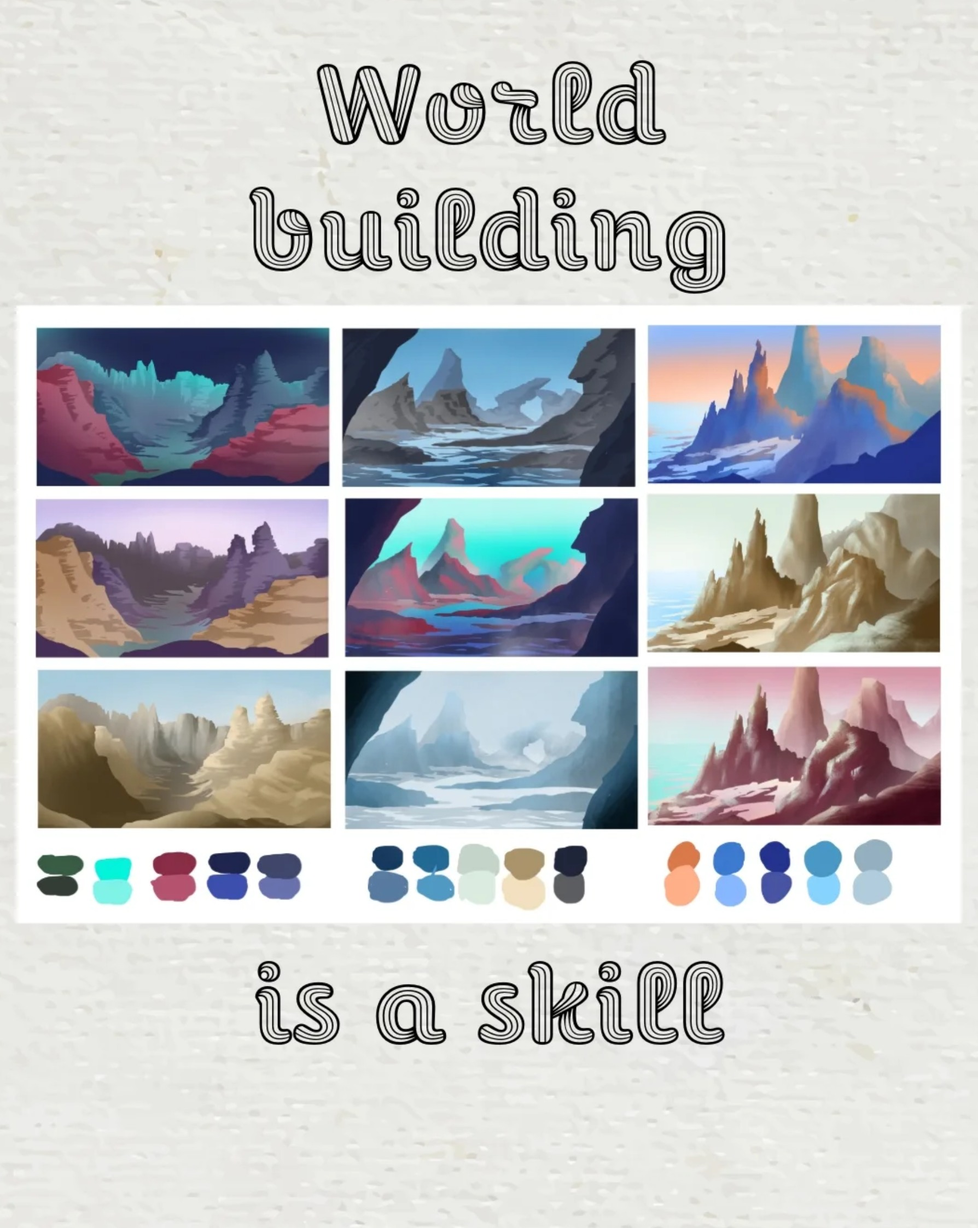
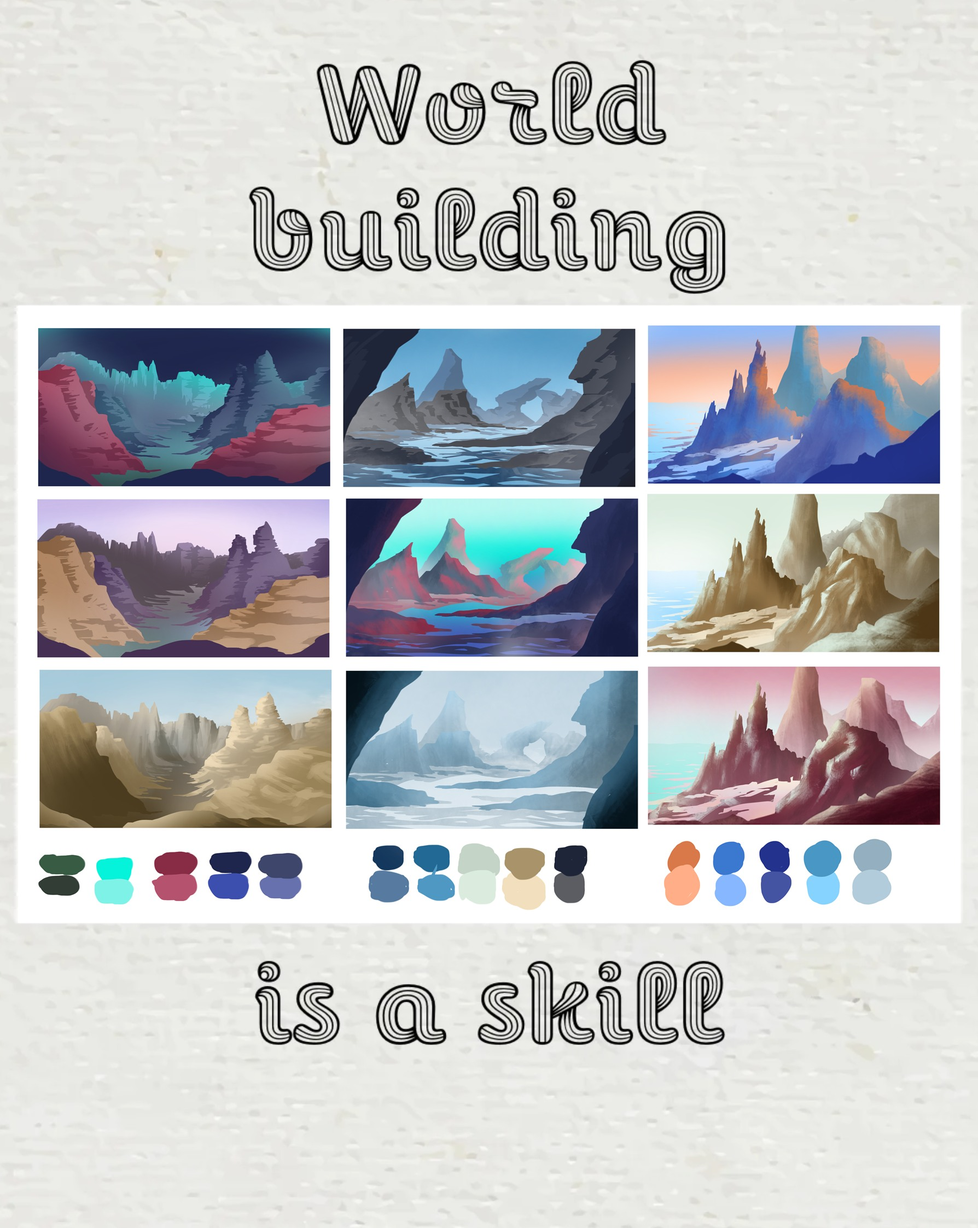
Sharper Episode 15; add Episodes 16 and 17; keep tall and wide pages sharp
- Episode 15: rebuilt from the original painting. The three columns are
  cut from the full-size studies; the title slide keeps its lettering
  from the screenshot with the original grid placed over its grid.
- Episode 16 "Start from the rock. Rock from the start": the post's
  blue text bands from the screenshot around the original painting.
- Episode 17 "Strom na svívanie": a tall single painting.
- build.ps1 now never shrinks a page below 1080 px on its shorter side,
  so tall strips and wide panels keep their detail.
- Pages mode shows very tall pages full width, scrolling within the page.

diff --git a/index.html b/index.html
@@ -6,7 +6,7 @@
 <meta name="claude:viewport-fit-sides" content="cover">
 <meta name="theme-color" content="#0f0d13">
 <!-- build.ps1 fills in a fingerprint of this version; the app compares it to spot updates. -->
-<meta name="app-build" content="8e562c5a">
+<meta name="app-build" content="3177aebb">
 <title>Planes of Nothingness</title>
 <!-- Home-screen app setup (used when served from GitHub Pages). -->
 <meta name="mobile-web-app-capable" content="yes">
@@ -360,6 +360,10 @@
     object-fit: contain;
     -webkit-user-drag: none;
   }
+  /* A very tall picture (a long vertical strip) would be a thin sliver if fitted to the screen,
+     so it fills the width instead and scrolls up and down within its page. */
+  .reader[data-mode="pages"] .page.tall { display: block; }
+  .reader[data-mode="pages"] .page.tall img { max-width: 760px; height: auto; margin-inline: auto; display: block; }
 
   .page { margin: 0; }
 
@@ -450,7 +454,7 @@
 </div>
 
 <!-- build.ps1 replaces the placeholder below with the comic's pages. -->
-<script id="comic-data" type="application/json">{"title":"Planes of Nothingness","seasons":[{"number":1,"episodes":[{"number":1,"pages":[{"src":"pages/s01e01-01-f016c8ff.jpg","text":"When you know that there is a parasite in your head","width":726,"height":1048},{"src":"pages/s01e01-02-c36b840e.jpg","text":"So you search it","width":726,"height":1048},{"src":"pages/s01e01-03-d606966f.jpg","text":"Every open space","width":726,"height":1048},{"src":"pages/s01e01-04-fd0faeb1.jpg","text":"Every hidden corner","width":726,"height":1048},{"src":"pages/s01e01-05-027c182d.jpg","text":"And after finding nothing, you know that there is the only way","width":726,"height":1048},{"src":"pages/s01e01-06-ea084353.jpg","text":"To burn it all to the ground.","width":726,"height":1048},{"src":"pages/s01e01-07-e69f9225.jpg","text":"And in the burned and barren land there is only one thing left","width":727,"height":1047},{"src":"pages/s01e01-08-5533e0df.jpg","text":"The Pit","width":727,"height":1047},{"src":"pages/s01e01-09-82b2bbd4.jpg","text":"The Pit will strip you of everything that is not You","width":722,"height":1043},{"src":"pages/s01e01-10-3f1e8811.jpg","text":"You enter the pit to get rid of It.","width":722,"height":1043},{"src":"pages/s01e01-11-74eab5f2.jpg","text":"And when you finally emerge after long and confusing time","width":722,"height":1043},{"src":"pages/s01e01-12-1a3352ba.jpg","text":"You are just the same as before","width":722,"height":1043},{"src":"pages/s01e01-13-ebbdae8f.jpg","text":"But before entering uncertainty of the Planes of Nothingness","width":721,"height":1047},{"src":"pages/s01e01-14-e9cf42f5.jpg","text":"You consider everything only to avoid it","width":721,"height":1047},{"src":"pages/s01e01-15-f90ca09f.jpg","text":"Even the possibility that the parasite","width":721,"height":1047},{"src":"pages/s01e01-16-e32c0e27.jpg","text":"Is you","width":720,"height":1035}]},{"number":2,"pages":[{"src":"pages/s01e02-01-3e55f551.jpg","text":"In The Planes of Nothingness","width":728,"height":1049},{"src":"pages/s01e02-02-36248a77.jpg","text":"There is this strange peace","width":728,"height":1049},{"src":"pages/s01e02-03-f32efac8.jpg","text":"And despite there is nothing to look at or sense in any other way...","width":728,"height":1049},{"src":"pages/s01e02-04-a41143c1.jpg","text":"You still feel the time passing by.","width":728,"height":1049},{"src":"pages/s01e02-05-bf31c1a6.jpg","text":"Flow of the time...","width":727,"height":1051},{"src":"pages/s01e02-06-96a091be.jpg","text":"...and light.","width":727,"height":1050},{"src":"pages/s01e02-07-1a2759ae.jpg","text":"And you begin to realize that the only thing necessary to feel the flow of the time is the light.","width":725,"height":1046},{"src":"pages/s01e02-08-e57450d8.jpg","text":"Your light.","width":726,"height":1048},{"src":"pages/s01e02-09-055eadbd.jpg","text":"And the realization of the source of this strange peace is even more surprising","width":727,"height":1052},{"src":"pages/s01e02-10-0f0463b7.jpg","text":"As there is nothing to look at, to sense, to keep...","width":723,"height":1044},{"src":"pages/s01e02-11-030cd3b8.jpg","text":"...there is nothing to control, either. Only light and presence to sense.","width":727,"height":1047},{"src":"pages/s01e02-12-3646ee25.jpg","text":"These are The Planes of Nothingness after all.","width":727,"height":1047},{"src":"pages/s01e02-13-cb876dd6.jpg","text":"And as you enjoy peace, light and time...","width":725,"height":1050},{"src":"pages/s01e02-14-9ecb364a.jpg","text":"...you start to feel the disturbance.","width":727,"height":1047},{"src":"pages/s01e02-15-37069275.jpg","text":"It is the people trying to save you...","width":727,"height":1047},{"src":"pages/s01e02-16-4da88316.jpg","text":"...from Nothing.","width":724,"height":1049}]},{"number":3,"pages":[{"src":"pages/s01e03-01-e6583ec8.jpg","text":"A dirt road lined with trees under a pale blue sky, the sun low on the left.","width":1600,"height":1080},{"src":"pages/s01e03-02-fa373ed5.jpg","text":"A blond person in a blue hoodie, holding a walking stick, steps between tree trunks at the edge of the road.","width":882,"height":1600},{"src":"pages/s01e03-03-bfd5b6b8.jpg","text":"Looking down the tree-lined road toward a red sunset. A dark figure stands in the middle of the road.","width":1600,"height":901},{"src":"pages/s01e03-04-2af34a64.jpg","text":"A person in a blue hoodie with a backpack and rolled-up brown trousers stands on the road, trees and a red glow behind.","width":796,"height":1600},{"src":"pages/s01e03-05-a6bd9230.jpg","text":"Under a pink sky, the two walkers stand at opposite ends of a row of trees, facing each other.","width":1600,"height":985},{"src":"pages/s01e03-06-6689bee3.jpg","text":"Close-up of two pairs of shoes facing each other on the path: dark high-tops on the left, worn trainers on the right.","width":1600,"height":790}],"title":"I have build this so that you can come in"},{"number":4,"pages":[{"src":"pages/s01e04-01-aff29d77.jpg","text":"A row of four trees on a grassy plain under a deep violet night sky.","width":1600,"height":930},{"src":"pages/s01e04-02-317b6709.jpg","text":"A person in a blue hood looks down. \"Where am I?\" \"In the middle of Nothing.\" \"There was a Pit...\" \"The Pit. I know. I have built this so that you can rest.\"","width":1600,"height":1154},{"src":"pages/s01e04-03-cb481747.jpg","text":"A simple world seen from above: a road between rows of bushes, a small fire glowing in the corner. \"What is it that you have built, exactly?\" \"For now, only this road, some trees and surrounding fields. The simplest world.\"","width":1480,"height":1600},{"src":"pages/s01e04-04-793a3bd1.jpg","text":"The two travellers sit on either side of a campfire under the trees at night. \"And this fire that cannot burn me but will keep us warm.\" \"Yes.\" \"In that case, can I make a wish?\" \"Yes.\" \"May I have eyes, please?\"","width":1464,"height":1600},{"src":"pages/s01e04-05-ef3eab2f.jpg","text":"A close-up of a pair of brown eyes, a small flame reflected in each. \"Yes, you may. But I am not going to draw them for every scene.\"","width":1600,"height":1065}],"title":"Do not get used to this"},{"number":5,"pages":[{"src":"pages/s01e05-01-d5d30908.jpg","text":"A forest of huge orange-brown tree trunks in daylight. \"May we have more trees?\"","width":1600,"height":556},{"src":"pages/s01e05-02-fec0eaa1.jpg","text":"The same forest glowing red, with pink light between the trunks. \"We may.\"","width":1600,"height":556},{"src":"pages/s01e05-03-28724b0e.jpg","text":"The same forest at night, grey trunks and fireflies in blue-green grass. \"For how long?\"","width":1600,"height":557},{"src":"pages/s01e05-04-9052a9fb.jpg","text":"The same forest at dawn, warm trunks under a violet sky. \"Until the stars fade away.\"","width":1600,"height":556}],"title":"We have the trees at home"},{"number":6,"pages":[{"src":"pages/s01e06-01-012349be.jpg","text":"Title page in black ink: \"Potoo vs Andal\", in big hand-drawn letters over scribbled bushes and grass.","width":1151,"height":1600},{"src":"pages/s01e06-02-c84a4963.jpg","text":"Endless rows of sharp, cross-hatched mountain peaks under an empty sky.","width":1600,"height":1112},{"src":"pages/s01e06-03-522df438.jpg","text":"A shaggy horse with a long dark mane looks out over the mountains.","width":1600,"height":1114},{"src":"pages/s01e06-04-8b9fa649.jpg","text":"The shaggy horse stands on a rocky ledge, looking over the sea of mountains.","width":1600,"height":1114},{"src":"pages/s01e06-05-3f64e4a5.jpg","text":"The shaggy horse gallops through the valley, mane and tail flying, past bushes and boulders.","width":1600,"height":1113},{"src":"pages/s01e06-06-a2baa6d5.jpg","text":"Another horse, with a neatly braided mane, looks over a wooden fence in front of a hedge.","width":1600,"height":1112},{"src":"pages/s01e06-07-19f2723d.jpg","text":"The braided horse leans over the fence, while the shaggy horse appears on the other side of the hedge.","width":1600,"height":1111},{"src":"pages/s01e06-08-8f112d2b.jpg","text":"The braided horse stares wide-eyed as the shaggy horse sticks its tongue out at it over the fence.","width":1600,"height":1114},{"src":"pages/s01e06-09-1f0b1cff.jpg","text":"The shaggy horse gallops away happily into the mountains, through the bushes.","width":1600,"height":1113},{"src":"pages/s01e06-10-926e6c4a.jpg","text":"The empty mountain landscape, with a few rocks and a path leading into the hills.","width":1155,"height":1600}],"title":"Story"},{"number":7,"pages":[{"src":"pages/s01e07-01-cddab238.jpg","text":"Underwater, in violet light: a manatee swims past seagrass, while a snail-like creature peeks out from its shell beside a pink sea anemone. \"That is beautiful.\" \"Leave, please.\"","width":1600,"height":1133},{"src":"pages/s01e07-02-92b36fac.jpg","text":"A smiling brown dinosaur stands by a lake under a purple evening sky with one bright star. \"Why? You said \u0027Until the stars fade away\u0027...\" \"They will - in a few minutes.\"","width":1600,"height":1116},{"src":"pages/s01e07-03-fce6efde.jpg","text":"A burning orange star streaks across the purple sky over grass and stones by a stream. \"You would destroy the world just to get rid of me?\" \"Of course. They are my words.\"","width":1600,"height":1141},{"src":"pages/s01e07-04-e96cccf6.jpg","text":"A swirl of violet, pink and blue specks, like a nebula. \"I can build how many I want.\"","width":1600,"height":1129}],"title":"Leave, please..."},{"number":8,"pages":[{"src":"pages/s01e08-01-42c679cf.jpg","text":"Two sets of pink, ring-like shapes interlock at the centre like clasped hands, on a mossy green background. \"Connection to the point of creation\"","width":1600,"height":1123},{"src":"pages/s01e08-02-54e3468e.jpg","text":"Waves of pink and bright green brushstrokes sweep across the picture. \"The erotic pull\"","width":1600,"height":1125},{"src":"pages/s01e08-03-7ee7f7d3.jpg","text":"Two arrows, one with a green tip and one with a pink tip, meet point to point in a burst of light against a blue sky. \"The touch of two arrows that were pointing at each other.\"","width":1600,"height":1129},{"src":"pages/s01e08-04-18ba0bde.jpg","text":"A small green sprout with a pink bud rises from brown earth above a layer of turquoise water. \"The seed reaching the hidden water source and growing again.\"","width":1600,"height":1121}],"title":"Creation and creativity come from the same source."},{"number":9,"pages":[{"src":"pages/s01e09-01-d9ae37f4.jpg","text":"A white sphere at the centre of many coloured balls on sticks, like a molecule model, against a deep blue background. \"We can hold multitudes.\"","width":1600,"height":1600},{"src":"pages/s01e09-02-fc5ba2f1.jpg","text":"A thorny green growth wraps around a pink stick and spreads over it. \"Sometimes, parts get infected and try to leech on others.\"","width":1600,"height":1600},{"src":"pages/s01e09-03-51efe05d.jpg","text":"The infected pink stick snaps in two, the green growth left holding the broken end. \"So we have to let that part go.\"","width":1600,"height":1600},{"src":"pages/s01e09-04-b56d22c7.jpg","text":"Green tendrils coil tightly around the pink stick, holding on. \"But some parasites are difficult to get rid of.\"","width":1600,"height":1600},{"src":"pages/s01e09-05-7f468285.jpg","text":"The molecule again, with one ball turned into a spiky green growth. \"So in order to stop it from infecting the whole...\"","width":1600,"height":1600},{"src":"pages/s01e09-06-d0b5d7a8.jpg","text":"A grey chunk is torn out of a larger sphere, still tangled in the green and pink growth. \"We rip the part that belongs to the core.\"","width":1600,"height":1600},{"src":"pages/s01e09-07-ad801ff6.jpg","text":"The torn place on the grey sphere is covered by a glowing turquoise net. \"But that is only an illusion.\"","width":1600,"height":1600},{"src":"pages/s01e09-08-23edcf32.jpg","text":"A glowing sphere filled with swirls of blue, pink, green and orange. \"Because at our core no division ever existed.\"","width":1600,"height":1600}],"title":"we can hold multitudes"},{"number":10,"pages":[{"src":"pages/s01e10-01-8ea920f6.jpg","text":"A pink anatomical heart inside a pale circle, a glowing pink wave winding around it. \"All hearts have their specific tunes.\"","width":1600,"height":1600},{"src":"pages/s01e10-02-279b618c.jpg","text":"Two hearts side by side, their two waves rising and falling together. \"Some hearts are naturally in tune with one another and they create a pleasant harmony.\"","width":1600,"height":800},{"src":"pages/s01e10-03-0b5ee290.jpg","text":"Two hearts side by side, their waves clashing out of step, with jagged green sparks between them. \"Some, on the other hand, create cacophony and unwanted tension, so they reject each other.\"","width":1600,"height":800},{"src":"pages/s01e10-04-c64e64f7.jpg","text":"Four hearts, each with a wave of its own colour and rhythm: pink, red, blue and yellow. \"It does not mean they are toxic. We are just different. All of us.\"","width":1600,"height":1600},{"src":"pages/s01e10-05-07d0354c.jpg","text":"One heart wrapped in a tangle of many faint, colourful waves and one sharp, jagged black one. \"Some hearts are a bit more complicated. They are hard to be in tune with, so they get rejected often.\"","width":1600,"height":1600},{"src":"pages/s01e10-06-f1c3a5f1.jpg","text":"The complicated heart in the middle, faint colours inside it, sends out only a simple, even wave toward four other hearts. \"So in time they learn how to conceal their sound and let out only a simple tune. They sacrifice authenticity for (perceived) acceptance...\"","width":1600,"height":800}],"title":"About Hearts"},{"number":11,"pages":[{"src":"pages/s01e11-01-81161000.jpg","text":"On a green background, a woman with long hair looks on, wide-eyed. \"Prečo si si oholila polku hlavy?\" (Why did you shave half of your head?)","width":1600,"height":1599},{"src":"pages/s01e11-02-e15abded.jpg","text":"The same woman, now with one side of her head shaved, answers calmly. \"Nie polku, ale tretinu. A na to, aby som mohla robiť komixy, kde sa rozprávam sama so sebou.\" (Not half, a third. And so that I can make comics where I talk to myself.)","width":1599,"height":1600},{"src":"pages/s01e11-03-bcc14717.jpg","text":"The long-haired woman smiles slyly. \"OK, OK... Ale ja budem tá rozumná a Ty tá prdlá. Inak do toho nejdem.\" (OK, OK... But I\u0027ll be the sensible one and You the crazy one. Otherwise I\u0027m not doing it.)","width":1600,"height":1600},{"src":"pages/s01e11-04-0c286565.jpg","text":"The woman with the shaved side frowns, determined. \"Platí.\" (Deal.)","width":1600,"height":1600}],"title":"Konečne vonku?"},{"number":12,"pages":[{"src":"pages/s01e12-01-af82b59f.jpg","text":"On a blue background, a reporter with long hair holds out a microphone, mouth open in shock. \"ŠKANDÁL! Tatérka sa nechala tetovať v strede leta! Čo nám k tomu poviete???\" (SCANDAL! A tattoo artist got tattooed in the middle of summer! What do you have to say about it???)","width":1600,"height":1600},{"src":"pages/s01e12-02-23a5ad18.jpg","text":"The tattoo artist, with one side of her head shaved, answers the microphone with a frown. \"Nevidím žiadny problém! Na dovolenke som už bola a do vody aj tak nechodím!\" (I don\u0027t see any problem! I\u0027ve already been on holiday and I don\u0027t go into the water anyway!)","width":1599,"height":1600},{"src":"pages/s01e12-03-14486e8d.jpg","text":"The reporter, wide-eyed, presses on, with a little sun drawn beside the words. \"Takže sa nebojíte slnka, potu a nimi spôsobeného zlého hojenia?\" (So you\u0027re not afraid of the sun, sweat and the bad healing they cause?)","width":1600,"height":1599},{"src":"pages/s01e12-04-92be2c07.jpg","text":"The tattoo artist answers calmly. \"Vôbec. Strach je spôsobený nevedomosťou. Celé leto nosím dlhé voľné oblečenie a som úplne v pohode!\" (Not at all. Fear comes from not knowing. All summer I wear long, loose clothes and I\u0027m completely fine!)","width":1600,"height":1599}],"title":"Tetovanie v lete?"},{"number":13,"pages":[{"src":"pages/s01e13-01-f00e2e41.jpg","text":"Two snakes, one violet and one green, coil around each other in a spiral against a starry purple sky. Their heads meet at the top in the shape of a heart, tongues twining together, and glowing lights of yellow, pink and red shine inside the loops of their bodies.","width":798,"height":1600}],"title":"Cosmic hug"},{"number":14,"pages":[{"src":"pages/s01e14-01-927fd2b4.jpg","text":"A sketchbook page covered in looping violet ballpoint lines that curve out from the middle and back again, like two great wings or the field lines of a magnet. Across the centre: \"Bol tam niekto z Vás?\" (Has any of you been there?) Signed \"27. 8. 2025, VeVe\".","width":1600,"height":1096}],"title":"Bol tam niekto z Vás?"},{"number":15,"pages":[{"src":"pages/s01e15-01-a0c92195.jpg","text":"\"World building is a skill\", in striped outline letters on textured paper, around a grid of nine landscape studies in three columns, each column with its own row of paint swatches below.","width":1274,"height":1600},{"src":"pages/s01e15-02-a7794d15.jpg","text":"Three versions of the same canyon, stacked: teal cliffs and crimson rock under a dark sky; violet spires and sandy ledges under a lilac sky; and golden, sunlit sandstone under a pale blue sky.","width":970,"height":1600},{"src":"pages/s01e15-03-84e1c777.jpg","text":"Three versions of the same view from inside a sea cave, out to rocks and a natural arch: grey stone and blue water; pink rocks under a turquoise sky; and a misty, icy blue.","width":974,"height":1600},{"src":"pages/s01e15-04-f2698061.jpg","text":"Three versions of the same jagged peaks by the sea: blue mountains lit orange by a peach sky; sandy brown spires under a pale green sky; and dusky rose rocks beside a turquoise sea.","width":968,"height":1600}],"title":"World building"}]}]}</script>
+<script id="comic-data" type="application/json">{"title":"Planes of Nothingness","seasons":[{"number":1,"episodes":[{"number":1,"pages":[{"src":"pages/s01e01-01-f016c8ff.jpg","text":"When you know that there is a parasite in your head","width":726,"height":1048},{"src":"pages/s01e01-02-c36b840e.jpg","text":"So you search it","width":726,"height":1048},{"src":"pages/s01e01-03-d606966f.jpg","text":"Every open space","width":726,"height":1048},{"src":"pages/s01e01-04-fd0faeb1.jpg","text":"Every hidden corner","width":726,"height":1048},{"src":"pages/s01e01-05-027c182d.jpg","text":"And after finding nothing, you know that there is the only way","width":726,"height":1048},{"src":"pages/s01e01-06-ea084353.jpg","text":"To burn it all to the ground.","width":726,"height":1048},{"src":"pages/s01e01-07-e69f9225.jpg","text":"And in the burned and barren land there is only one thing left","width":727,"height":1047},{"src":"pages/s01e01-08-5533e0df.jpg","text":"The Pit","width":727,"height":1047},{"src":"pages/s01e01-09-82b2bbd4.jpg","text":"The Pit will strip you of everything that is not You","width":722,"height":1043},{"src":"pages/s01e01-10-3f1e8811.jpg","text":"You enter the pit to get rid of It.","width":722,"height":1043},{"src":"pages/s01e01-11-74eab5f2.jpg","text":"And when you finally emerge after long and confusing time","width":722,"height":1043},{"src":"pages/s01e01-12-1a3352ba.jpg","text":"You are just the same as before","width":722,"height":1043},{"src":"pages/s01e01-13-ebbdae8f.jpg","text":"But before entering uncertainty of the Planes of Nothingness","width":721,"height":1047},{"src":"pages/s01e01-14-e9cf42f5.jpg","text":"You consider everything only to avoid it","width":721,"height":1047},{"src":"pages/s01e01-15-f90ca09f.jpg","text":"Even the possibility that the parasite","width":721,"height":1047},{"src":"pages/s01e01-16-e32c0e27.jpg","text":"Is you","width":720,"height":1035}]},{"number":2,"pages":[{"src":"pages/s01e02-01-3e55f551.jpg","text":"In The Planes of Nothingness","width":728,"height":1049},{"src":"pages/s01e02-02-36248a77.jpg","text":"There is this strange peace","width":728,"height":1049},{"src":"pages/s01e02-03-f32efac8.jpg","text":"And despite there is nothing to look at or sense in any other way...","width":728,"height":1049},{"src":"pages/s01e02-04-a41143c1.jpg","text":"You still feel the time passing by.","width":728,"height":1049},{"src":"pages/s01e02-05-bf31c1a6.jpg","text":"Flow of the time...","width":727,"height":1051},{"src":"pages/s01e02-06-96a091be.jpg","text":"...and light.","width":727,"height":1050},{"src":"pages/s01e02-07-1a2759ae.jpg","text":"And you begin to realize that the only thing necessary to feel the flow of the time is the light.","width":725,"height":1046},{"src":"pages/s01e02-08-e57450d8.jpg","text":"Your light.","width":726,"height":1048},{"src":"pages/s01e02-09-055eadbd.jpg","text":"And the realization of the source of this strange peace is even more surprising","width":727,"height":1052},{"src":"pages/s01e02-10-0f0463b7.jpg","text":"As there is nothing to look at, to sense, to keep...","width":723,"height":1044},{"src":"pages/s01e02-11-030cd3b8.jpg","text":"...there is nothing to control, either. Only light and presence to sense.","width":727,"height":1047},{"src":"pages/s01e02-12-3646ee25.jpg","text":"These are The Planes of Nothingness after all.","width":727,"height":1047},{"src":"pages/s01e02-13-cb876dd6.jpg","text":"And as you enjoy peace, light and time...","width":725,"height":1050},{"src":"pages/s01e02-14-9ecb364a.jpg","text":"...you start to feel the disturbance.","width":727,"height":1047},{"src":"pages/s01e02-15-37069275.jpg","text":"It is the people trying to save you...","width":727,"height":1047},{"src":"pages/s01e02-16-4da88316.jpg","text":"...from Nothing.","width":724,"height":1049}]},{"number":3,"pages":[{"src":"pages/s01e03-01-e6583ec8.jpg","text":"A dirt road lined with trees under a pale blue sky, the sun low on the left.","width":1600,"height":1080},{"src":"pages/s01e03-02-df273587.jpg","text":"A blond person in a blue hoodie, holding a walking stick, steps between tree trunks at the edge of the road.","width":1080,"height":1958},{"src":"pages/s01e03-03-8cc19470.jpg","text":"Looking down the tree-lined road toward a red sunset. A dark figure stands in the middle of the road.","width":1918,"height":1080},{"src":"pages/s01e03-04-d52c7504.jpg","text":"A person in a blue hoodie with a backpack and rolled-up brown trousers stands on the road, trees and a red glow behind.","width":1080,"height":2172},{"src":"pages/s01e03-05-672b325c.jpg","text":"Under a pink sky, the two walkers stand at opposite ends of a row of trees, facing each other.","width":1754,"height":1080},{"src":"pages/s01e03-06-c05ade8c.jpg","text":"Close-up of two pairs of shoes facing each other on the path: dark high-tops on the left, worn trainers on the right.","width":2188,"height":1080}],"title":"I have build this so that you can come in"},{"number":4,"pages":[{"src":"pages/s01e04-01-dc8e7d35.jpg","text":"A row of four trees on a grassy plain under a deep violet night sky.","width":1859,"height":1080},{"src":"pages/s01e04-02-317b6709.jpg","text":"A person in a blue hood looks down. \"Where am I?\" \"In the middle of Nothing.\" \"There was a Pit...\" \"The Pit. I know. I have built this so that you can rest.\"","width":1600,"height":1154},{"src":"pages/s01e04-03-cb481747.jpg","text":"A simple world seen from above: a road between rows of bushes, a small fire glowing in the corner. \"What is it that you have built, exactly?\" \"For now, only this road, some trees and surrounding fields. The simplest world.\"","width":1480,"height":1600},{"src":"pages/s01e04-04-793a3bd1.jpg","text":"The two travellers sit on either side of a campfire under the trees at night. \"And this fire that cannot burn me but will keep us warm.\" \"Yes.\" \"In that case, can I make a wish?\" \"Yes.\" \"May I have eyes, please?\"","width":1464,"height":1600},{"src":"pages/s01e04-05-976e0a3d.jpg","text":"A close-up of a pair of brown eyes, a small flame reflected in each. \"Yes, you may. But I am not going to draw them for every scene.\"","width":1623,"height":1080}],"title":"Do not get used to this"},{"number":5,"pages":[{"src":"pages/s01e05-01-a70480c4.jpg","text":"A forest of huge orange-brown tree trunks in daylight. \"May we have more trees?\"","width":3000,"height":1042},{"src":"pages/s01e05-02-2dccc1c7.jpg","text":"The same forest glowing red, with pink light between the trunks. \"We may.\"","width":3000,"height":1042},{"src":"pages/s01e05-03-9f48839c.jpg","text":"The same forest at night, grey trunks and fireflies in blue-green grass. \"For how long?\"","width":3000,"height":1044},{"src":"pages/s01e05-04-2aca5a17.jpg","text":"The same forest at dawn, warm trunks under a violet sky. \"Until the stars fade away.\"","width":3000,"height":1042}],"title":"We have the trees at home"},{"number":6,"pages":[{"src":"pages/s01e06-01-012349be.jpg","text":"Title page in black ink: \"Potoo vs Andal\", in big hand-drawn letters over scribbled bushes and grass.","width":1151,"height":1600},{"src":"pages/s01e06-02-c84a4963.jpg","text":"Endless rows of sharp, cross-hatched mountain peaks under an empty sky.","width":1600,"height":1112},{"src":"pages/s01e06-03-522df438.jpg","text":"A shaggy horse with a long dark mane looks out over the mountains.","width":1600,"height":1114},{"src":"pages/s01e06-04-8b9fa649.jpg","text":"The shaggy horse stands on a rocky ledge, looking over the sea of mountains.","width":1600,"height":1114},{"src":"pages/s01e06-05-3f64e4a5.jpg","text":"The shaggy horse gallops through the valley, mane and tail flying, past bushes and boulders.","width":1600,"height":1113},{"src":"pages/s01e06-06-a2baa6d5.jpg","text":"Another horse, with a neatly braided mane, looks over a wooden fence in front of a hedge.","width":1600,"height":1112},{"src":"pages/s01e06-07-19f2723d.jpg","text":"The braided horse leans over the fence, while the shaggy horse appears on the other side of the hedge.","width":1600,"height":1111},{"src":"pages/s01e06-08-8f112d2b.jpg","text":"The braided horse stares wide-eyed as the shaggy horse sticks its tongue out at it over the fence.","width":1600,"height":1114},{"src":"pages/s01e06-09-1f0b1cff.jpg","text":"The shaggy horse gallops away happily into the mountains, through the bushes.","width":1600,"height":1113},{"src":"pages/s01e06-10-926e6c4a.jpg","text":"The empty mountain landscape, with a few rocks and a path leading into the hills.","width":1155,"height":1600}],"title":"Story"},{"number":7,"pages":[{"src":"pages/s01e07-01-cddab238.jpg","text":"Underwater, in violet light: a manatee swims past seagrass, while a snail-like creature peeks out from its shell beside a pink sea anemone. \"That is beautiful.\" \"Leave, please.\"","width":1600,"height":1133},{"src":"pages/s01e07-02-92b36fac.jpg","text":"A smiling brown dinosaur stands by a lake under a purple evening sky with one bright star. \"Why? You said \u0027Until the stars fade away\u0027...\" \"They will - in a few minutes.\"","width":1600,"height":1116},{"src":"pages/s01e07-03-fce6efde.jpg","text":"A burning orange star streaks across the purple sky over grass and stones by a stream. \"You would destroy the world just to get rid of me?\" \"Of course. They are my words.\"","width":1600,"height":1141},{"src":"pages/s01e07-04-e96cccf6.jpg","text":"A swirl of violet, pink and blue specks, like a nebula. \"I can build how many I want.\"","width":1600,"height":1129}],"title":"Leave, please..."},{"number":8,"pages":[{"src":"pages/s01e08-01-42c679cf.jpg","text":"Two sets of pink, ring-like shapes interlock at the centre like clasped hands, on a mossy green background. \"Connection to the point of creation\"","width":1600,"height":1123},{"src":"pages/s01e08-02-54e3468e.jpg","text":"Waves of pink and bright green brushstrokes sweep across the picture. \"The erotic pull\"","width":1600,"height":1125},{"src":"pages/s01e08-03-7ee7f7d3.jpg","text":"Two arrows, one with a green tip and one with a pink tip, meet point to point in a burst of light against a blue sky. \"The touch of two arrows that were pointing at each other.\"","width":1600,"height":1129},{"src":"pages/s01e08-04-18ba0bde.jpg","text":"A small green sprout with a pink bud rises from brown earth above a layer of turquoise water. \"The seed reaching the hidden water source and growing again.\"","width":1600,"height":1121}],"title":"Creation and creativity come from the same source."},{"number":9,"pages":[{"src":"pages/s01e09-01-d9ae37f4.jpg","text":"A white sphere at the centre of many coloured balls on sticks, like a molecule model, against a deep blue background. \"We can hold multitudes.\"","width":1600,"height":1600},{"src":"pages/s01e09-02-fc5ba2f1.jpg","text":"A thorny green growth wraps around a pink stick and spreads over it. \"Sometimes, parts get infected and try to leech on others.\"","width":1600,"height":1600},{"src":"pages/s01e09-03-51efe05d.jpg","text":"The infected pink stick snaps in two, the green growth left holding the broken end. \"So we have to let that part go.\"","width":1600,"height":1600},{"src":"pages/s01e09-04-b56d22c7.jpg","text":"Green tendrils coil tightly around the pink stick, holding on. \"But some parasites are difficult to get rid of.\"","width":1600,"height":1600},{"src":"pages/s01e09-05-7f468285.jpg","text":"The molecule again, with one ball turned into a spiky green growth. \"So in order to stop it from infecting the whole...\"","width":1600,"height":1600},{"src":"pages/s01e09-06-d0b5d7a8.jpg","text":"A grey chunk is torn out of a larger sphere, still tangled in the green and pink growth. \"We rip the part that belongs to the core.\"","width":1600,"height":1600},{"src":"pages/s01e09-07-ad801ff6.jpg","text":"The torn place on the grey sphere is covered by a glowing turquoise net. \"But that is only an illusion.\"","width":1600,"height":1600},{"src":"pages/s01e09-08-23edcf32.jpg","text":"A glowing sphere filled with swirls of blue, pink, green and orange. \"Because at our core no division ever existed.\"","width":1600,"height":1600}],"title":"we can hold multitudes"},{"number":10,"pages":[{"src":"pages/s01e10-01-8ea920f6.jpg","text":"A pink anatomical heart inside a pale circle, a glowing pink wave winding around it. \"All hearts have their specific tunes.\"","width":1600,"height":1600},{"src":"pages/s01e10-02-098fcddd.jpg","text":"Two hearts side by side, their two waves rising and falling together. \"Some hearts are naturally in tune with one another and they create a pleasant harmony.\"","width":2160,"height":1080},{"src":"pages/s01e10-03-574b7efb.jpg","text":"Two hearts side by side, their waves clashing out of step, with jagged green sparks between them. \"Some, on the other hand, create cacophony and unwanted tension, so they reject each other.\"","width":2160,"height":1080},{"src":"pages/s01e10-04-c64e64f7.jpg","text":"Four hearts, each with a wave of its own colour and rhythm: pink, red, blue and yellow. \"It does not mean they are toxic. We are just different. All of us.\"","width":1600,"height":1600},{"src":"pages/s01e10-05-07d0354c.jpg","text":"One heart wrapped in a tangle of many faint, colourful waves and one sharp, jagged black one. \"Some hearts are a bit more complicated. They are hard to be in tune with, so they get rejected often.\"","width":1600,"height":1600},{"src":"pages/s01e10-06-4fb436f8.jpg","text":"The complicated heart in the middle, faint colours inside it, sends out only a simple, even wave toward four other hearts. \"So in time they learn how to conceal their sound and let out only a simple tune. They sacrifice authenticity for (perceived) acceptance...\"","width":2160,"height":1080}],"title":"About Hearts"},{"number":11,"pages":[{"src":"pages/s01e11-01-81161000.jpg","text":"On a green background, a woman with long hair looks on, wide-eyed. \"Prečo si si oholila polku hlavy?\" (Why did you shave half of your head?)","width":1600,"height":1599},{"src":"pages/s01e11-02-e15abded.jpg","text":"The same woman, now with one side of her head shaved, answers calmly. \"Nie polku, ale tretinu. A na to, aby som mohla robiť komixy, kde sa rozprávam sama so sebou.\" (Not half, a third. And so that I can make comics where I talk to myself.)","width":1599,"height":1600},{"src":"pages/s01e11-03-bcc14717.jpg","text":"The long-haired woman smiles slyly. \"OK, OK... Ale ja budem tá rozumná a Ty tá prdlá. Inak do toho nejdem.\" (OK, OK... But I\u0027ll be the sensible one and You the crazy one. Otherwise I\u0027m not doing it.)","width":1600,"height":1600},{"src":"pages/s01e11-04-0c286565.jpg","text":"The woman with the shaved side frowns, determined. \"Platí.\" (Deal.)","width":1600,"height":1600}],"title":"Konečne vonku?"},{"number":12,"pages":[{"src":"pages/s01e12-01-af82b59f.jpg","text":"On a blue background, a reporter with long hair holds out a microphone, mouth open in shock. \"ŠKANDÁL! Tatérka sa nechala tetovať v strede leta! Čo nám k tomu poviete???\" (SCANDAL! A tattoo artist got tattooed in the middle of summer! What do you have to say about it???)","width":1600,"height":1600},{"src":"pages/s01e12-02-23a5ad18.jpg","text":"The tattoo artist, with one side of her head shaved, answers the microphone with a frown. \"Nevidím žiadny problém! Na dovolenke som už bola a do vody aj tak nechodím!\" (I don\u0027t see any problem! I\u0027ve already been on holiday and I don\u0027t go into the water anyway!)","width":1599,"height":1600},{"src":"pages/s01e12-03-14486e8d.jpg","text":"The reporter, wide-eyed, presses on, with a little sun drawn beside the words. \"Takže sa nebojíte slnka, potu a nimi spôsobeného zlého hojenia?\" (So you\u0027re not afraid of the sun, sweat and the bad healing they cause?)","width":1600,"height":1599},{"src":"pages/s01e12-04-92be2c07.jpg","text":"The tattoo artist answers calmly. \"Vôbec. Strach je spôsobený nevedomosťou. Celé leto nosím dlhé voľné oblečenie a som úplne v pohode!\" (Not at all. Fear comes from not knowing. All summer I wear long, loose clothes and I\u0027m completely fine!)","width":1600,"height":1599}],"title":"Tetovanie v lete?"},{"number":13,"pages":[{"src":"pages/s01e13-01-1faf35a2.jpg","text":"Two snakes, one violet and one green, coil around each other in a spiral against a starry purple sky. Their heads meet at the top in the shape of a heart, tongues twining together, and glowing lights of yellow, pink and red shine inside the loops of their bodies.","width":1080,"height":2166}],"title":"Cosmic hug"},{"number":14,"pages":[{"src":"pages/s01e14-01-927fd2b4.jpg","text":"A sketchbook page covered in looping violet ballpoint lines that curve out from the middle and back again, like two great wings or the field lines of a magnet. Across the centre: \"Bol tam niekto z Vás?\" (Has any of you been there?) Signed \"27. 8. 2025, VeVe\".","width":1600,"height":1096}],"title":"Bol tam niekto z Vás?"},{"number":15,"pages":[{"src":"pages/s01e15-01-e41bb68e.jpg","text":"\"World building is a skill\", in striped outline letters on textured paper, around a grid of nine landscape studies in three columns, each column with its own row of paint swatches below.","width":1274,"height":1600},{"src":"pages/s01e15-02-681ec504.jpg","text":"Three versions of the same canyon, stacked: teal cliffs and crimson rock under a dark sky; violet spires and sandy ledges under a lilac sky; and golden, sunlit sandstone under a pale blue sky.","width":1080,"height":1782},{"src":"pages/s01e15-03-449ce7a9.jpg","text":"Three versions of the same view from inside a sea cave, out to rocks and a natural arch: grey stone and blue water; pink rocks under a turquoise sky; and a misty, icy blue.","width":1080,"height":1782},{"src":"pages/s01e15-04-e8382ead.jpg","text":"Three versions of the same jagged peaks by the sea: blue mountains lit orange by a peach sky; sandy brown spires under a pale green sky; and dusky rose rocks beside a turquoise sea.","width":1080,"height":1782}],"title":"World building"},{"number":16,"pages":[{"src":"pages/s01e16-01-c4cb398d.jpg","text":"\"Start from the rock.\" in rough stencil letters on a deep blue band; below it, the view from inside a sea cave out to grey rocks, a tall peak and a natural stone arch over shining blue water; then another blue band: \"Rock from the start.\"","width":1598,"height":1600}],"title":"Start from the rock. Rock from the start"},{"number":17,"pages":[{"src":"pages/s01e17-01-4e192208.jpg","text":"A tall, narrow painting of one great tree. At the top, against a violet night sky, a white heron flies over nests full of birds: doves, a flamingo, a parrot, and a small figure peeking out. Below, the winding trunk twists through glowing green and white clouds of leaves, and at the bottom its roots weave into a fiery red and orange braided knot.","width":1080,"height":4320}],"title":"Strom na svívanie"}]}]}</script>
 
 <script>
 "use strict";
@@ -597,7 +601,7 @@ function openEpisode(episode) {
 
   stage.replaceChildren(
     ...episode.pages.map((page, i) =>
-      el("figure", { className: "slot page" },
+      el("figure", { className: page.height > page.width * 2.2 ? "slot page tall" : "slot page" },
         el("img", {
           src: page.src,
           alt: `Page ${i + 1}: ${page.text}`,

diff --git a/src/reader.html b/src/reader.html
@@ -360,6 +360,10 @@
     object-fit: contain;
     -webkit-user-drag: none;
   }
+  /* A very tall picture (a long vertical strip) would be a thin sliver if fitted to the screen,
+     so it fills the width instead and scrolls up and down within its page. */
+  .reader[data-mode="pages"] .page.tall { display: block; }
+  .reader[data-mode="pages"] .page.tall img { max-width: 760px; height: auto; margin-inline: auto; display: block; }
 
   .page { margin: 0; }
 
@@ -597,7 +601,7 @@ function openEpisode(episode) {
 
   stage.replaceChildren(
     ...episode.pages.map((page, i) =>
-      el("figure", { className: "slot page" },
+      el("figure", { className: page.height > page.width * 2.2 ? "slot page tall" : "slot page" },
         el("img", {
           src: page.src,
           alt: `Page ${i + 1}: ${page.text}`,

diff --git a/README.md b/README.md
@@ -24,7 +24,7 @@ background, so the whole comic works offline.
 | `comic/comic.json` | The list of seasons, episodes and pages, in reading order. Each page's `text` is its caption, or a short description for pages without words (used for screen readers). |
 | `comic/season-XX/episode-XX/` | The page images (originals). |
 | `src/reader.html` | The reader app (HTML, CSS and plain JavaScript, no libraries). Contains a `__COMIC_DATA__` placeholder. |
-| `build.ps1` | Writes phone-sized copies of the pages into `pages/`, fills the placeholder with the comic data, writes `index.html`, and crops the app icons. Pages longer than 1600 px on a side are scaled down. |
+| `build.ps1` | Writes phone-sized copies of the pages into `pages/`, fills the placeholder with the comic data, writes `index.html`, and crops the app icons. Pages longer than 1600 px on a side are scaled down, but never below 1080 px on their shorter side (so tall strips and wide panoramas stay sharp). |
 | `pages/` | Built page pictures. Names end in a content fingerprint (`s01e03-04-1a2b3c4d.jpg`), so a changed picture gets a new name and can be cached forever. Do not edit; rebuild. |
 | `index.html` | The built, ready-to-use app. Do not edit it by hand; rebuild it instead. |
 | `tools/split-page.ps1` | Cuts a full comic page into its separate panels. |
